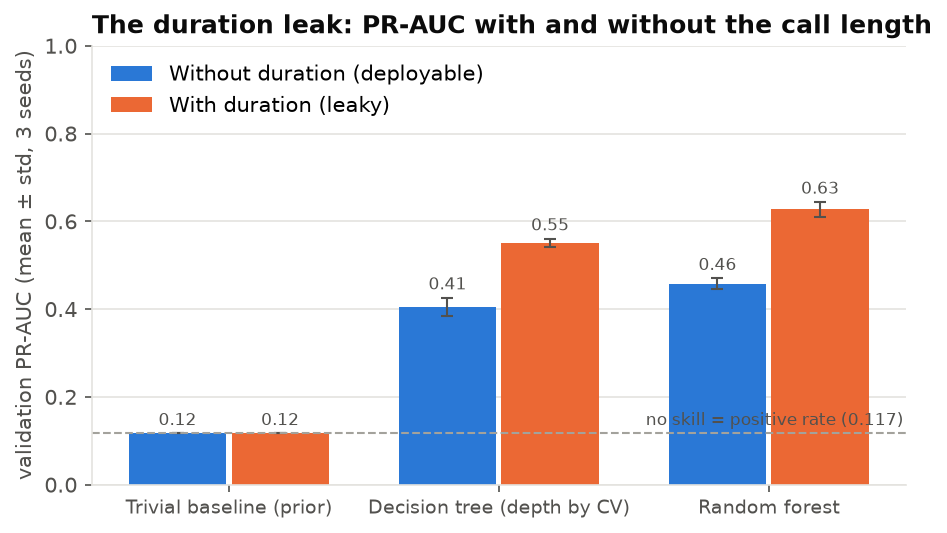
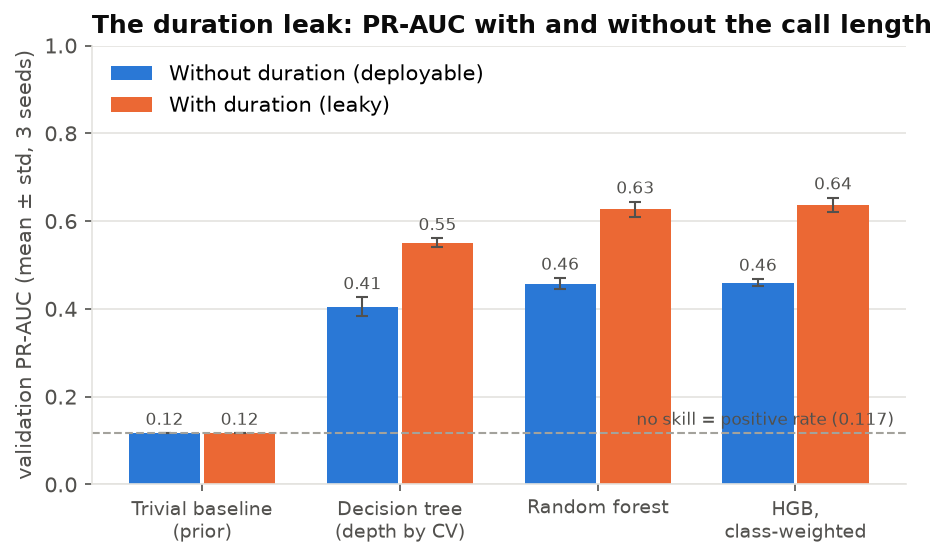
Boosting improvement, ablation, 3 seeds

diff --git a/src/train.py b/src/train.py
@@ -96,10 +96,53 @@ def fit_forest(X_tr, y_tr, X_val, y_val, seed, fs):
     return model, fit_time, info
 
 
+def fit_hgb(X_tr, y_tr, X_val, y_val, seed, fs):
+    """Improvement: gradient boosting with class_weight="balanced".
+
+    The 24 configurations in HGB_GRID are compared on validation; inside each fit,
+    early stopping (on 10% of the training rows) picks the number of trees.
+    """
+    t = time.perf_counter()
+    model, fit_time, p, table = tune_on_validation(
+        lambda **kw: models.hgb(seed, weighted=True, **kw), models.HGB_GRID, X_tr, y_tr, X_val, y_val)
+    tune_time = time.perf_counter() - t
+    table.insert(0, "seed", seed)
+    table.insert(0, "feature_set", fs)
+
+    info = {"best_" + k: v for k, v in p.items()} | {
+        "n_iter": model.n_iter_, "tune_time_s": tune_time, "_search_table": table,
+        "_desc": (f"lr={p['learning_rate']} leaves={p['max_leaf_nodes']} leaf={p['min_samples_leaf']} "
+                  f"l2={p['l2_regularization']} trees={model.n_iter_}")}
+    return model, fit_time, info
+
+
+def fit_hgb_unweighted(X_tr, y_tr, X_val, y_val, seed, fs):
+    """Ablation: the configuration chosen for the weighted model, with class_weight=None.
+
+    Only the class weighting changes, so any difference comes from it.
+    """
+    path = RESULTS / "hgb_val_search.csv"
+    if not path.exists():
+        raise SystemExit("run `python -m src.train --models hgb` before the ablation")
+    s = pd.read_csv(path)
+    row = s[(s["feature_set"] == fs) & (s["seed"] == seed) & s["chosen"]].iloc[0]
+    p = {"learning_rate": float(row["learning_rate"]), "max_leaf_nodes": int(row["max_leaf_nodes"]),
+         "min_samples_leaf": int(row["min_samples_leaf"]), "l2_regularization": float(row["l2_regularization"])}
+
+    model = models.hgb(seed, weighted=False, **p)
+    t = time.perf_counter()
+    model.fit(X_tr, y_tr)
+    fit_time = time.perf_counter() - t
+    return model, fit_time, {"n_iter": model.n_iter_,
+                             "_desc": f"same config as hgb, unweighted, trees={model.n_iter_}"}
+
+
 MODELS = {
     "dummy": fit_dummy,
     "tree": fit_tree,
     "forest": fit_forest,
+    "hgb": fit_hgb,
+    "hgb_unweighted": fit_hgb_unweighted,   # must run after "hgb" (reads its chosen configs)
 }
 
 
@@ -154,11 +197,13 @@ def main(model_names, final):
                 print(f"{name:6s} {fs:10s} seed={seed}  val PR-AUC={val_scores['pr_auc']:.4f}  "
                       f"ROC-AUC={val_scores['roc_auc']:.4f}  fit={train_time:.2f}s  {desc}", flush=True)
 
+        # Written per model, so a later model in the same run (the ablation) can read it.
+        if name in search_tables:
+            pd.concat(search_tables[name]).to_csv(RESULTS / f"{name}_val_search.csv", index=False)
+
     merge_into(RESULTS / "val_metrics.csv", val_rows, model_names)
     if cv_tables:
         pd.concat(cv_tables).to_csv(RESULTS / "dt_cv.csv", index=False)
-    for name, tables in search_tables.items():
-        pd.concat(tables).to_csv(RESULTS / f"{name}_val_search.csv", index=False)
     if final:
         merge_into(RESULTS / "metrics.csv", test_rows, model_names)
         print("test-set metrics written to results/metrics.csv")

diff --git a/src/evaluate.py b/src/evaluate.py
@@ -78,7 +78,9 @@ def plot_duration_gap(path, name="F2b_duration_gap.png", split="validation"):
     df = pd.read_csv(path)
     df = df[df["metric"] == "pr_auc"]
     g = df.groupby(["model", "feature_set"])["value"].agg(["mean", "std"])
-    names = [m for m in MODEL_ORDER if m in g.index.get_level_values("model")]
+    # The class-weight ablation is about weighting, not the leak, so it is left out here.
+    names = [m for m in MODEL_ORDER
+             if m != "hgb_unweighted" and m in g.index.get_level_values("model")]
     prevalence = g.loc[("dummy", "DEPLOYABLE"), "mean"] if "dummy" in names else None
 
     fig, ax = plt.subplots(figsize=(7, 3.8))
@@ -98,7 +100,7 @@ def plot_duration_gap(path, name="F2b_duration_gap.png", split="validation"):
         ax.annotate(f"no skill = positive rate ({prevalence:.3f})", (len(names) - 0.5, prevalence),
                     textcoords="offset points", xytext=(0, 4), ha="right", fontsize=8, color=ps.INK_2)
     ax.set_xticks(range(len(names)))
-    ax.set_xticklabels([LABELS[m] for m in names], fontsize=9)
+    ax.set_xticklabels([LABELS[m].replace(" (", "\n(").replace(", ", ",\n") for m in names], fontsize=9)
     ax.set_ylabel(f"{split} PR-AUC (mean ± std, 3 seeds)")
     ax.set_ylim(0, 1)
     ax.grid(axis="x", visible=False)
@@ -119,6 +121,12 @@ def main():
     print(duration_gap(RESULTS / "val_metrics.csv").to_string())
     plot_duration_gap(RESULTS / "val_metrics.csv")
     print("\nsaved results/figures/F2b_duration_gap.png")
+    abl = summary(RESULTS / "val_metrics.csv",
+                  metrics=("pr_auc", "roc_auc", "brier", "threshold", "precision", "recall", "n_iter"))
+    abl = abl[abl.index.get_level_values("model").isin(["hgb", "hgb_unweighted"])]
+    if len(abl):
+        print("\nCLASS-WEIGHT ABLATION (same configuration, only class_weight differs)\n")
+        print(abl.to_string())
     if (RESULTS / "dt_cv.csv").exists():
         plot_tree_cv()
         print("saved results/figures/DT_cv_depth_curve.png")
